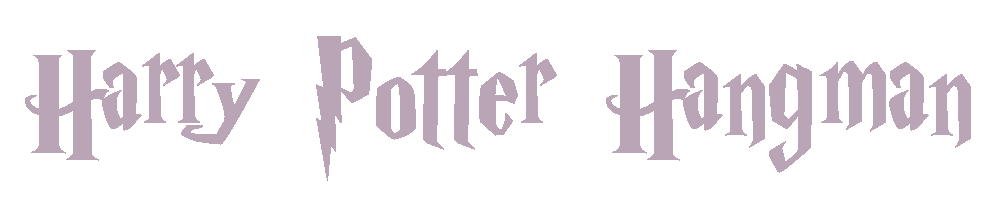
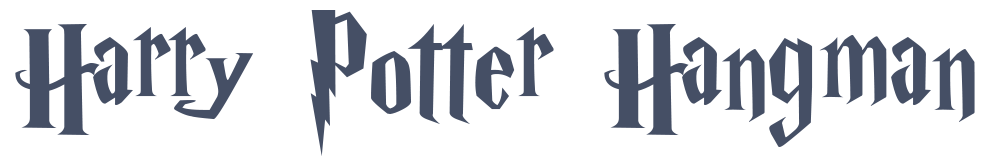
redesigned. looks way better. functionality almost there.

Changed region(s): [[0.6061, 0.1212, 1.0, 0.8788], [0.303, 0.0606, 0.5758, 0.9091], [0.0, 0.1212, 0.2727, 0.8182]]

diff --git a/index.html b/index.html
@@ -4,9 +4,12 @@
 	<meta charset="UTF-8">
 	<title>Harry Potter Hangman</title>
 	<!--<script src="assets/javascript/game.js"></script>-->
+	<!-- link to reset styles -->
 	<link rel="stylesheet" type="text/css" href="assets/css/reset.css">
+	<!-- link to custom styles -->
 	<link rel="stylesheet" type="text/css" href="assets/css/style.css">
-	<link href="https://fonts.googleapis.com/css?family=Prociono" rel="stylesheet">
+	<!-- link to google fonts -->
+	<link href="https://fonts.googleapis.com/css?family=Arvo:400,400i" rel="stylesheet">
 </head>
 <body>
 
@@ -23,28 +26,28 @@
 	<hr>
 	<br><br>
 	<div id="winsTitle">
-		<h2>——  Wins  ——</h2>
+		<h2>——  <i>Wins</i>  ——</h2>
 	</div>
 	<br>
 	<div id="wins">
 	</div>
 	<br><br>
 	<div id="currentWord">
-		<h2>——  Current Word  ——</h2>
+		<h2>——  <i>Current Word</i>  ——</h2>
 	</div>
 	<br>
 	<div id="blankWord">
 	</div>
 	<br><br>
 	<div id="guessesRemainTitle">
-		<h2>——  Guesses Remaining  ——</h2>
+		<h2>——  <i>Guesses Remaining</i>  ——</h2>
 	</div>
 	<br>
 	<div id="guessesRemain">
 	</div>
 	<br><br>
 	<div id="lettersGuessedTitle">
-		<h2>——  Letters Guessed  ——</h2>
+		<h2>——  <i>Letters Guessed</i>  ——</h2>
 	</div>
 	<br>
 	<div id="lettersGuessed">

diff --git a/assets/css/style.css b/assets/css/style.css
@@ -1,17 +1,18 @@
 body {
-	background: url("http://media.harrypotter.bloomsbury.com/rep/g/page-background-shell%20-%202.png");
+	background: url(../images/castle.jpg);
+	background-size: cover;
 	height: 650px;
-	font-family: 'Prociono', serif;
-	font-size: 20px;
+	font-family: 'Arvo', serif;
+	font-size: 18px;
 	color: #fff;
 }
 
 h1 {
-	font-size: 32px;
+	font-size: 30px;
 }
 
 h2 {
-	font-size: 25px;
+	font-size: 22px;
 }
 
 header {
@@ -20,12 +21,17 @@ header {
 }
 
 #container {
-	background: #BAA5B6;
+	text-align: center;
+	background-color: rgba(162,189,206,.7);
 	margin-left: 475px;
 	margin bottom: 50px;
-	margin-top: 25px;
+	margin-top: 35px;
 	width: 625px;
-	height: 425px;
+	height:500px;
 	padding: 45px 25px 25px 25px;
+}
+
+img {
+	margin-top: 50px;
 	text-align: center;
 }
